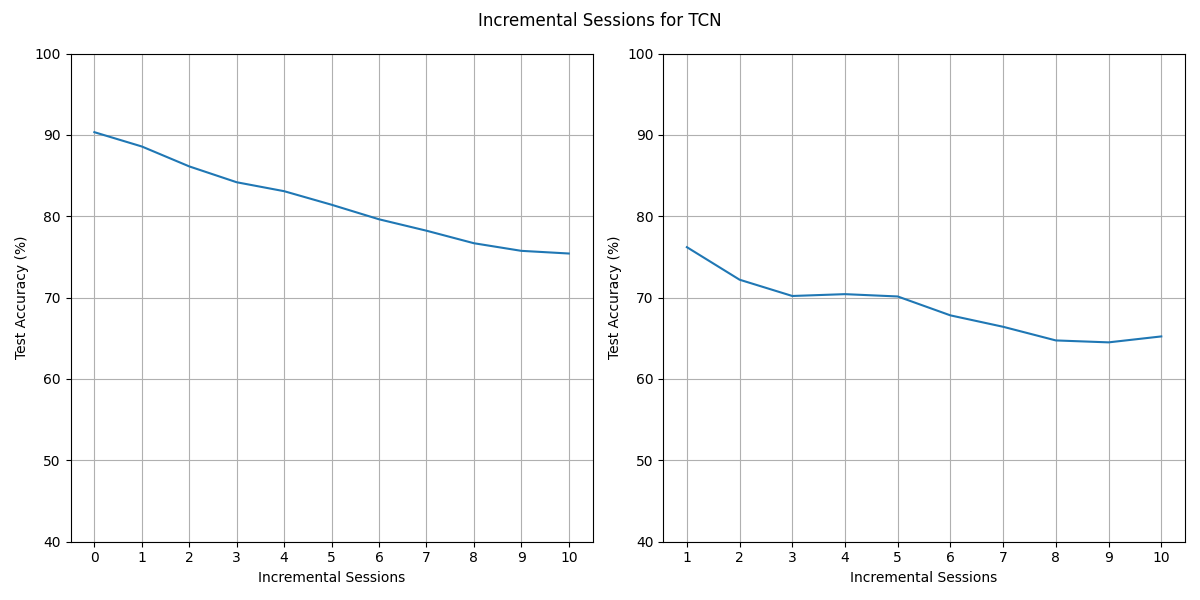
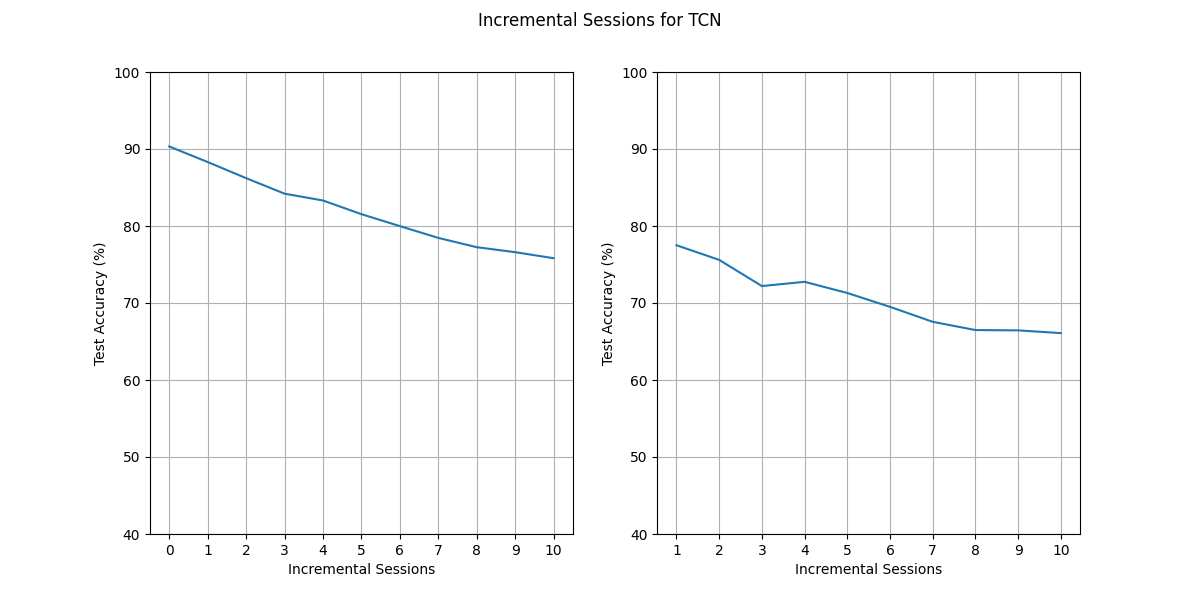
minor_fix

diff --git a/main.py b/main.py
@@ -43,7 +43,7 @@ PREFETCH_FACTOR = 4
 BATCH_SIZE = 256
 PRE_TRAIN = True
 NUM_SHOTS = 5 # How many shots to use for evaluation
-EPOCHS = 11 # if pre-training from scratch
+EPOCHS = 51 # if pre-training from scratch
 NUM_REPEATS = 1
 
 # Define MFCC pre-processing
@@ -408,6 +408,7 @@ class NeuroTester:
 
             # Plot All Classes Performance
             plt.subplot(1, 2, 1)
+            plt.title("All Classes Performance")
             plt.plot(range(11), [x*100 for x in eval_accs], label="All Classes Performance")      
             plt.xlabel("Incremental Sessions")
             plt.ylabel("Test Accuracy (%)")
@@ -418,6 +419,7 @@ class NeuroTester:
 
             # Plot New Classes Performance
             plt.subplot(1, 2, 2)
+            plt.title("New Classes Performance")
             plt.plot(range(1, 11), [x*100 for x in query_accs], label="New Classes Performance")
             plt.xlabel("Incremental Sessions")
             plt.ylabel("Test Accuracy (%)")
@@ -425,6 +427,7 @@ class NeuroTester:
             plt.xticks(range(1, 11, 1))
             plt.yticks(range(40, 101, 10))
             plt.grid(True)
+
             plt.savefig(f"results_{self.model_name}.png")
             plt.show()
             
